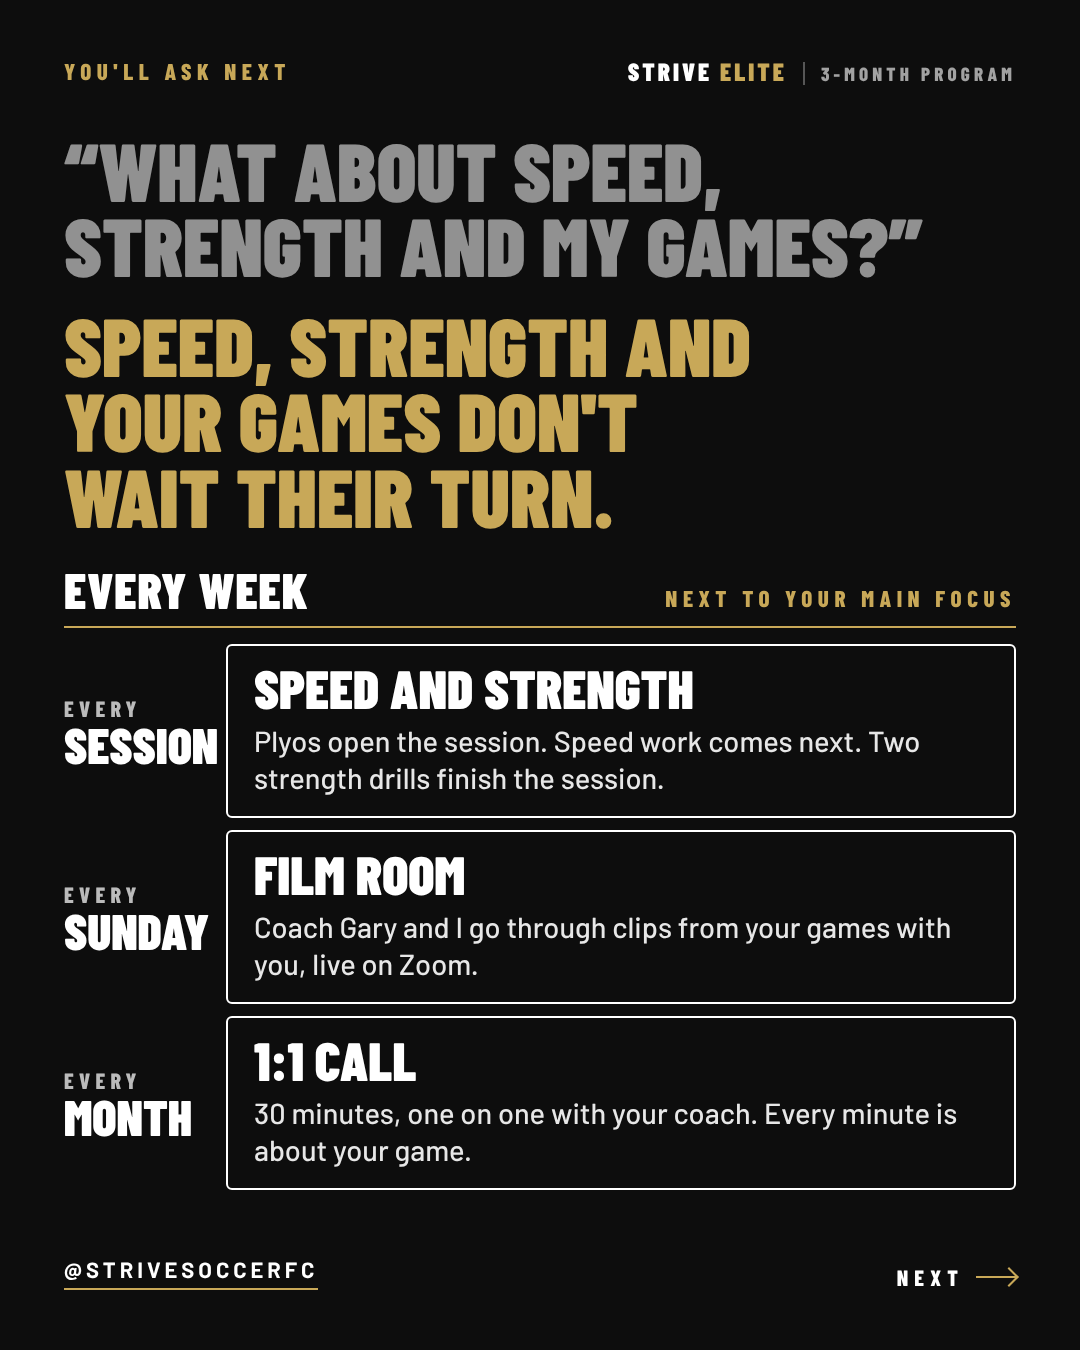
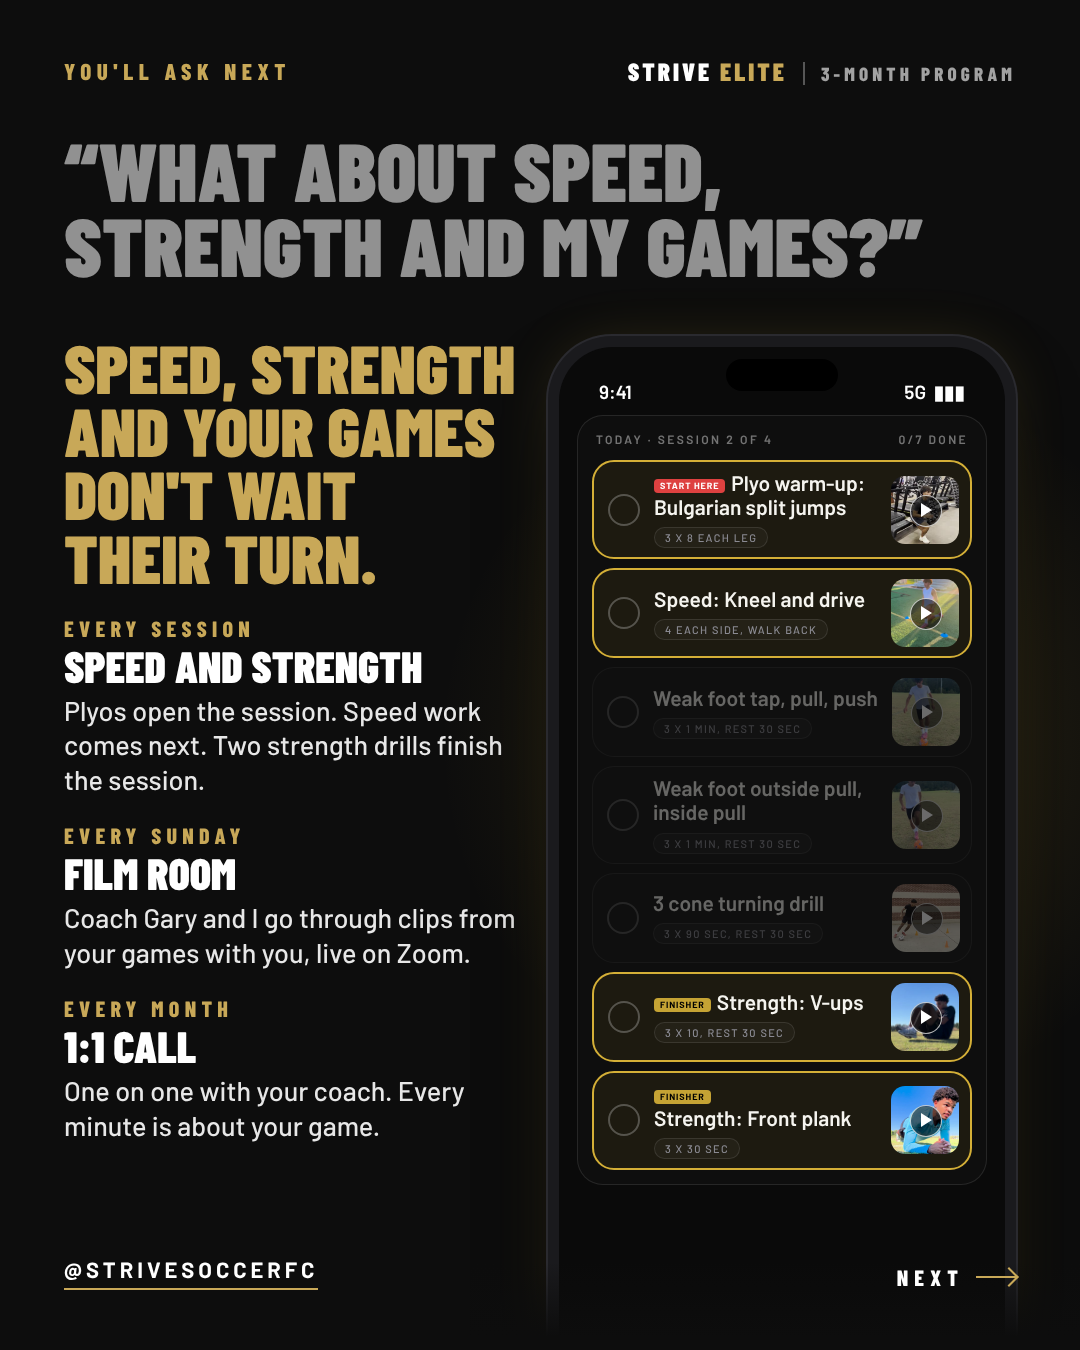
Compact carousel: slide 6 gets the app phone back, 30 minutes removed
Claude-Session: https://claude.ai/code/session_011JsCTTjCbUkHbTuWTKQSXJ

Changed region(s): [[0.0611, 0.2178, 0.9472, 0.9022], [0.4889, 0.8711, 0.5194, 0.9022]]

diff --git a/marketing/program/one-thing-carousel-4/06-every-week.html b/marketing/program/one-thing-carousel-4/06-every-week.html
@@ -1,19 +1,30 @@
 <!doctype html><meta charset="utf-8"><link rel="stylesheet" href="../../covers/strive-elite-meeting/fonts.css"><link rel="stylesheet" href="style.css"><title>Speed, strength and your games</title>
-<style>.q{font-size:82px}
-.big{margin-top:24px;font-family:'Barlow Condensed';font-weight:900;font-size:82px;line-height:.92;text-transform:uppercase;color:#c8a858}
-.sched{margin-top:34px}
-.rw{display:grid;grid-template-columns:150px 1fr;gap:12px;margin-top:12px}
-.rw .lb{display:flex;flex-direction:column;justify-content:center;font-family:'Barlow Condensed';font-weight:800;font-size:22px;letter-spacing:.24em;text-transform:uppercase;color:rgba(255,255,255,.72)}
-.rw .lb b{font-weight:900;font-size:50px;line-height:.92;letter-spacing:0;color:#fff}
-.rw .bx{border:2.5px solid #fff;border-radius:6px;padding:17px 26px 20px}
-.rw .bx b{display:block;font-family:'Barlow Condensed';font-weight:900;font-size:54px;line-height:.94;text-transform:uppercase;color:#fff}
-.rw .bx i{display:block;margin-top:8px;font-style:normal;font-weight:500;font-size:29px;line-height:1.28;color:rgba(255,255,255,.9)}</style>
+<style>
+.q{position:absolute;left:64px;right:64px;top:132px;font-size:82px}
+.card{min-height:90px;padding:9px 11px 9px 14px}.cards{gap:9px}.th{width:68px;height:68px}
+.phone{top:336px;height:1016px}
+.copy{top:336px;width:452px}
+.copy .big{font-size:68px;line-height:.93}
+.it{margin-top:26px}
+.it small{display:block;font-family:'Barlow Condensed';font-weight:800;font-size:22px;letter-spacing:.24em;text-transform:uppercase;color:#c8a858}
+.it b{display:block;margin-top:4px;font-family:'Barlow Condensed';font-weight:900;font-size:44px;line-height:.95;text-transform:uppercase;color:#fff}
+.it p{margin-top:6px;font-size:27px;line-height:1.28;font-weight:500;color:rgba(255,255,255,.9)}
+</style>
+<div class="glow"></div>
 <div class="top"><div class="step">You'll ask next</div><div class="wm">Strive <span>Elite</span><em>3-month program</em></div></div>
-<div class="pad"><div class="q">&ldquo;What about speed, strength and my games?&rdquo;</div>
-<div class="big">Speed, strength and<br>your games don't<br>wait their turn.</div>
-<div class="sched"><div class="hd"><b>Every week</b><span>Next to your main focus</span></div>
-<div class="rw"><div class="lb">Every<b>Session</b></div><div class="bx"><b>Speed and strength</b><i>Plyos open the session. Speed work comes next. Two strength drills finish the session.</i></div></div>
-<div class="rw"><div class="lb">Every<b>Sunday</b></div><div class="bx"><b>Film Room</b><i>Coach Gary and I go through clips from your games with you, live on Zoom.</i></div></div>
-<div class="rw"><div class="lb">Every<b>Month</b></div><div class="bx"><b>1:1 call</b><i>30 minutes, one on one with your coach. Every minute is about your game.</i></div></div>
-</div></div>
+<div class="q">&ldquo;What about speed, strength and my games?&rdquo;</div>
+<div class="copy"><div class="big">Speed, strength and your games don't wait their turn.</div>
+<div class="it"><small>Every session</small><b>Speed and strength</b><p>Plyos open the session. Speed work comes next. Two strength drills finish the session.</p></div>
+<div class="it"><small>Every Sunday</small><b>Film Room</b><p>Coach Gary and I go through clips from your games with you, live on Zoom.</p></div>
+<div class="it"><small>Every month</small><b>1:1 call</b><p>One on one with your coach. Every minute is about your game.</p></div></div>
+<div class="phone"><div class="screen"><div class="island"></div><div class="status"><span>9:41</span><span>5G &nbsp;▮▮▮</span></div><div class="sess"><div class="shd"><span>Today · Session 2 of 4</span><span>0/7 done</span></div><div class="cards">
+<div class="card start hi"><div class="ck"></div><div class="tx"><div class="tl"><span class="bd red">Start here</span><span style="white-space:nowrap">Plyo warm-up:</span> Bulgarian split jumps</div><span class="chip">3 x 8 each leg</span></div><div class="th"><img src="app/plyo-bulgarian-split-jumps.jpg"></div></div>
+<div class="card hi"><div class="ck"></div><div class="tx"><div class="tl">Speed: Kneel and drive</div><span class="chip">4 each side, walk back</span></div><div class="th"><img src="app/speed-kneel-and-drive.jpg"></div></div>
+<div class="card lo"><div class="ck"></div><div class="tx"><div class="tl">Weak foot tap, pull, push</div><span class="chip">3 x 1 min, rest 30 sec</span></div><div class="th"><img src="app/weak-foot-tap-pull-push.jpg"></div></div>
+<div class="card lo"><div class="ck"></div><div class="tx"><div class="tl">Weak foot outside pull, inside pull</div><span class="chip">3 x 1 min, rest 30 sec</span></div><div class="th"><img src="app/weak-foot-outside-pull-inside-pull.jpg"></div></div>
+<div class="card lo"><div class="ck"></div><div class="tx"><div class="tl">3 cone turning drill</div><span class="chip">3 x 90 sec, rest 30 sec</span></div><div class="th"><img src="app/triangle-turning.jpg"></div></div>
+<div class="card hi"><div class="ck"></div><div class="tx"><div class="tl"><span class="bd gd">Finisher</span><span style="white-space:nowrap">Strength: V-ups</span></div><span class="chip">3 x 10, rest 30 sec</span></div><div class="th"><img src="app/strength-v-ups.jpg"></div></div>
+<div class="card hi"><div class="ck"></div><div class="tx"><div class="tl"><span class="bd gd">Finisher</span><span style="white-space:nowrap">Strength: Front plank</span></div><span class="chip">3 x 30 sec</span></div><div class="th"><img src="app/strength-front-plank.jpg"></div></div>
+</div></div></div></div>
+<div class="fadeb"></div>
 <div class="handle">@strivesoccerfc</div><div class="swipe">Next <i></i></div>

diff --git a/marketing/program/one-thing-carousel-3/11-film.html b/marketing/program/one-thing-carousel-3/11-film.html
@@ -29,7 +29,7 @@
 </div><div class="fr mc">
 <div class="e">Monthly check-in call</div>
 <div class="u2">Pick a time</div>
-<div class="s">30 minutes, one on one with your coach.<br><b>Every minute is about your game.</b></div>
+<div class="s">One on one with your coach.<br><b>Every minute is about your game.</b></div>
 <div class="pills"><span>9:00 AM</span><span class="on">9:30 AM</span></div>
 </div></div></div>
 <div class="fadeb"></div>

diff --git a/CLAUDE.md b/CLAUDE.md
@@ -4043,6 +4043,7 @@ commit.
       THEN (Coach Yinka: "You just say things like the other half, say the rest of the session. Like if you get why I'm saying apply this principle to all the copy"): THE PRINCIPLE, added to the COPY RULE in Policies: say the whole thing, name what you mean every time, never a clipped reference the reader has to work out. APPLIED TO ALL TWELVE SLIDES (1 and 2 needed nothing): 3 "Your weak foot is on you." / "SO HOW MUCH WORK DOES YOUR WEAK FOOT GET?"; 4 "RIGHT NOW YOUR WEAK FOOT GETS 2 DRILLS IN 4 SESSIONS."; 5 "SAME 4 SESSIONS. NOW YOUR WEAK FOOT GETS 8 DRILLS." / "Two weak foot drills every session, two weeks straight. Enough to change it. Then your next weakness gets its turn."; 6 "AND THE DRILLS HAVE TO GET HARDER." / "Still easy? DO IT WITH YOUR EYES CLOSED." / "Your touch works the same way."; 7 "I was out for five months with a hip tear ... That was all." / header right "I had no choice" / "On a wall, 45 minutes, every day" / "keep the rest of your game going on the side"; 8 "One weakness is the main focus for two weeks and gets half of every session. The rest of the session keeps your other weaknesses improving.", gold blocks marked "main focus", white block "The rest of every session: YOUR OTHER WEAKNESSES. Passing is already improving before it becomes the main focus. Your weak foot stays sharp after its two weeks."; 9 "Two drills on the rest of your game. A different part of your game every session"; 10 "SPEED AND STRENGTH DON'T WAIT THEIR TURN." / "speed and strength work" / "Two strength drills finish the session."; 11 "you get a 1:1 call with us about where your game is at" and the card "30 minutes, one on one with your coach. Every minute is about your game."; 12 "Tell us the one thing holding you back. We'll build your three months around it." Slides 4, 5 and 6 were refitted for the longer headlines. Caption rewritten to the same rule (README), closing "DM ELITE and tell us the one thing holding you back." All twelve re-rendered and sent. Not posted.
       THEN (Coach Yinka, with a screenshot of the story slide in his editor: "Take off I had no choice. And wym a ball on a wall? Like what"): on slide 7 "I had no choice" is gone from the schedule header (the header is "One main thing at a time" alone), and the line in the first gold block is "Touches against a wall, 45 minutes, every day" ("On a wall, 45 minutes, every day" read as the ball sitting on a wall; that wording was mine). Re-rendered and sent; nothing else changed. Not posted.
       THEN (Coach Yinka: "You think you could shrink this down to like 6 or 7 slides? ... a little more compact ... get the point across clearer and better"): THE COMPACT CUT, SEVEN SLIDES, at marketing/program/one-thing-carousel-4/ (html, png, style.css, carousel-preview.png, README with every line, the caption and what the cut cost); the twelve-slide version stays as the record in one-thing-carousel-3. Same look and approved lines, merged: 1 cover (unchanged); 2 "YOU KNOW THIS WEEK." (was slides 2, 3 and 4: "Some juggling. Some cone work. A few passes off the wall. A couple of shots. Now say your weak foot is the one thing holding you back.", the week written down, "YOUR WEAK FOOT GETS 2 DRILLS IN 4 SESSIONS. That's not training your weak foot. That's visiting it."); 3 "SAME 4 SESSIONS. NOW YOUR WEAK FOOT GETS 8 DRILLS." (was 5 and 6: the two-week grid, then Week 1 drill "Weak foot tap, pull, push" beside Week 2 drill, harder, "Weak foot pop and juggle", "Two weak foot drills every session, and the drills get harder in week two. Nobody gets stronger lifting the same weight all year."); 4 his story (unchanged); 5 "But I've got more than one thing to fix." (unchanged; it also answers "only weak foot for two weeks?"); 6 "WHAT ABOUT SPEED, STRENGTH AND MY GAMES?" / "SPEED, STRENGTH AND YOUR GAMES DON'T WAIT THEIR TURN." (was 10 and 11, as three white blocks under EVERY WEEK: every session speed and strength, every Sunday Film Room, every month the 1:1 call, the approved lines); 7 close (unchanged). WHAT THE CUT COST, his to bring back: "You sweat. You go home feeling good. Three months later you're the same player."; "Force him to his left" is off the slides and in the caption; "Do it with your eyes closed"; the phone screens (slide 6 is type in the block look). Standing flags unchanged (4 drills and two finishers on the slides against the app's 3 and 1; "30 minutes" is his Nov 5 example; speaks to the player; no price or guarantee). Sent, not posted.
+      THEN (Coach Yinka: "Amazing just remove the 30 minutes part and see if you can fit in the phonographic visual of the app if possble"; read as the phone graphic of the app): compact cut slide 6 rebuilt. The phone is back on the right with the app's session screen (plyo warm-up, Speed: Kneel and drive and both strength finishers lit, the three skill drills dimmed), and the copy runs down the left: "SPEED, STRENGTH AND YOUR GAMES DON'T WAIT THEIR TURN.", then Every session / Every Sunday / Every month. The 1:1 call line is "One on one with your coach. Every minute is about your game."; "30 minutes" is gone there and from the twelve-slide version's slide 11 card. The Film Room and check-in cards from the app are not on the compact cut (one phone fits; it shows the session). Sent, not posted.
 
 ## Skills (use them without being asked)
 

diff --git a/marketing/program/one-thing-carousel-4/README.md b/marketing/program/one-thing-carousel-4/README.md
@@ -29,12 +29,13 @@ Same look, same approved lines, merged. Render: `node render.mjs 02-your-week.ht
    weeks?"). "BUT I'VE GOT MORE THAN ONE THING TO FIX." / Good. It's three
    months. You get six. ...
 6. `06-every-week` (was slides 10 and 11). "WHAT ABOUT SPEED, STRENGTH AND MY
-   GAMES?" / SPEED, STRENGTH AND YOUR GAMES DON'T WAIT THEIR TURN. / EVERY
-   WEEK, next to your main focus: Every session, SPEED AND STRENGTH (Plyos
-   open the session. Speed work comes next. Two strength drills finish the
-   session.) / Every Sunday, FILM ROOM (Coach Gary and I go through clips from
-   your games with you, live on Zoom.) / Every month, 1:1 CALL (30 minutes,
-   one on one with your coach. Every minute is about your game.)
+   GAMES?" / SPEED, STRENGTH AND YOUR GAMES DON'T WAIT THEIR TURN. / Every
+   session, SPEED AND STRENGTH (Plyos open the session. Speed work comes next.
+   Two strength drills finish the session.) / Every Sunday, FILM ROOM (Coach
+   Gary and I go through clips from your games with you, live on Zoom.) /
+   Every month, 1:1 CALL (One on one with your coach. Every minute is about
+   your game.) Beside the copy, the phone with the app's session screen: the
+   plyo warm-up, the speed drill and both strength finishers lit.
 7. `07-close` (unchanged). ONE THING AT A TIME. HARDER EVERY WEEK. NOTHING LEFT
    BEHIND. / Three months, built around you by Coach Gary and me. / DM us
    "ELITE" / Tell us the one thing holding you back. We'll build your three
@@ -47,8 +48,8 @@ Same look, same approved lines, merged. Render: `node render.mjs 02-your-week.ht
 - "Defenders get told one thing: 'Force him to his left.'" is off the slides
   and in the caption.
 - "Still easy? Do it with your eyes closed."
-- The phone screens (the session cards, the Film Room and check-in cards);
-  slide 6 is type in the block look instead.
+- The Film Room and check-in cards from the app (slide 6 carries the session
+  phone; Film Room and the 1:1 call are words beside it).
 
 ## Caption
 
@@ -67,7 +68,5 @@ DM ELITE and tell us the one thing holding you back.
 - The carousel shows 4 drills a session, 2 on the main focus, and two strength
   drills to finish; the app builds 3 skill drills and one finisher (his
   "Carousel only" call, Nov 11).
-- "30 minutes" for the 1:1 call is his Nov 5 example; the coach sets the length
-  per day in the app.
 - It speaks to the player, not the parent. No price, no guarantee, by design.
 - Carla's ELITE reply should expect "the one thing holding you back".
